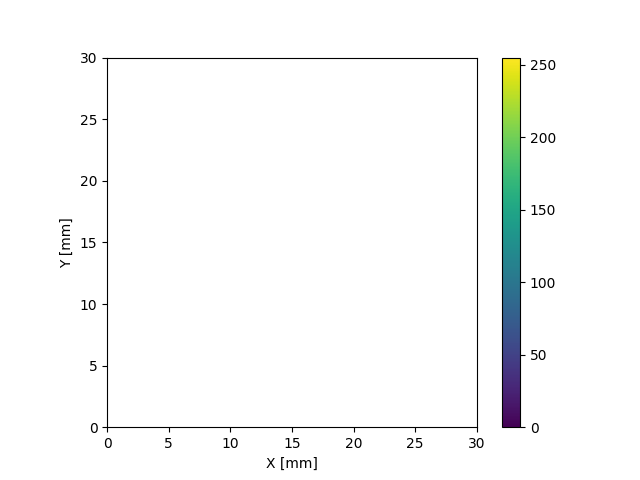
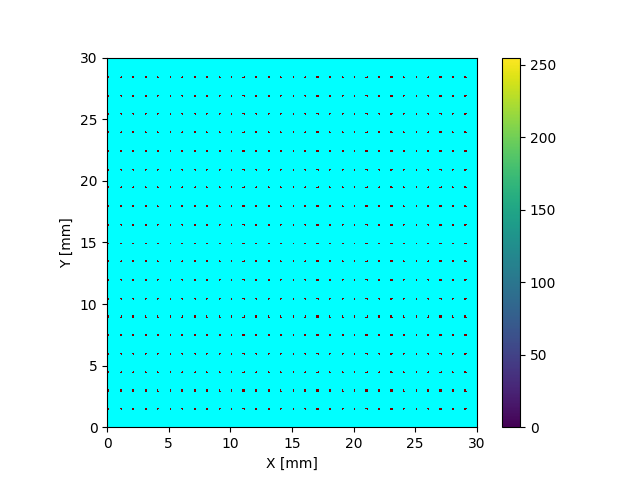
Slices as of 11/12

diff --git a/slicer.py b/slicer.py
@@ -2,17 +2,17 @@ import numpy as np
 import matplotlib.pyplot as plt
 from PIL import Image
 
-a = np.array([1, 2, 3])
-
 # Printer resolution; this is machine-specific, not slice-specific!
 xres = 299.73  # DPI
 yres = 299.73  # DPI
-n_layers = 10
+n_layers = 111
 layer_height = 0.018
+
+# droplet size in mm, I think
+d_size = (1/xres) * 25.4
 
 # File prefix for outputted slices.
 prefix = "slice_"
-
 
 # Bounding area size in [mm]
 bounds = np.array([30, 30])
@@ -23,33 +23,58 @@ mapy = lambda y: yres * 0.0393701 * y
 x_samp = np.linspace(0, bounds[0], int(np.ceil(mapx(bounds[0]))))
 y_samp = np.linspace(0, bounds[1], int(np.ceil(mapy(bounds[1]))))
 x, y = np.meshgrid(x_samp, y_samp)
-print(f"Max value of x_samp: {np.max(x_samp)}")
+print(f"1 Droplet = {1e3*bounds[0]/len(x_samp):0.4} um")
 
 
 def circle(x, y, loc, r):
     return np.sqrt((x - loc[0]) ** 2 + (y - loc[1]) ** 2) - r
+def box(x,y,loc,size):
+    return np.maximum(x-loc[0], y-loc[1])-size/2
 
+base = 3
 
 # x,y in units of mm
 def domain(x, y, z):
-    radius = 12.7
+    if z/layer_height < base:
+        radius = 10
+    else:
+        radius = d_size*1
 
-    nx = 
+    # x_space = d_size * 10 # mm
+    # y_space = d_size * 10 # mm
+    x_space = 1 # mm
+    y_space = 1.5 # mm
 
-    return circle(x, y, [15, 15], radius)
+    ix_x = np.floor(x / x_space)
+    ix_y = np.floor(y / y_space)
+
+    x -= x_space * ix_x
+    y -= y_space * ix_y
+
+    cutoff = (ix_x < np.floor(bounds[0]/x_space)) * (ix_y < np.floor(bounds[1]/y_space))
+    return circle(x, y, 2*[radius], radius)
+    # return box(x, y, 2*[radius], 2*radius) * cutoff
 
 for i in range(n_layers):
     z = i * layer_height
 
-    # Here, only a single color is used. 
+    # Here, only a single color is used.
     data = 255 * (domain(x, y, z) < 0).astype(np.uint8)
-    
-    # Tiling into RGBA format. This means - for now - the file has white, opaque features on a background of (0,0,0,0) (transparent)
-    data = np.repeat(data[:,:,None],4,axis=2)
 
-    print (f"Data shape -> {data.shape}")
+    # Tiling into RGBA format. This means - for now - the file has white, opaque features on a background of (0,0,0,0) (transparent)
+    # data = np.repeat(data[:,:,None],4,axis=2)
+
+    # Prettier colors for vis
+    data = np.repeat(data[:,:,None],1,axis=2)
+    if i < base:
+        data = np.dstack((data, ~data, ~data, 255*np.ones(data.shape[:-1], dtype=np.uint8)))
+    else:
+        data = np.dstack((np.uint8(0.5*data), ~data, ~data, 255*np.ones(data.shape[:-1], dtype=np.uint8)))
+
+    # print (f"Data shape -> {data.shape}")
+    # print (f"Data first element -> {data[0,0,:]}")
     im = Image.fromarray(data)
-    im.save(f"outputs/slice_{i+1:02d}.png")
+    im.save(f"outputs/slice_{i+1:03d}.png")
 
 
 fig, ax = plt.subplots()
